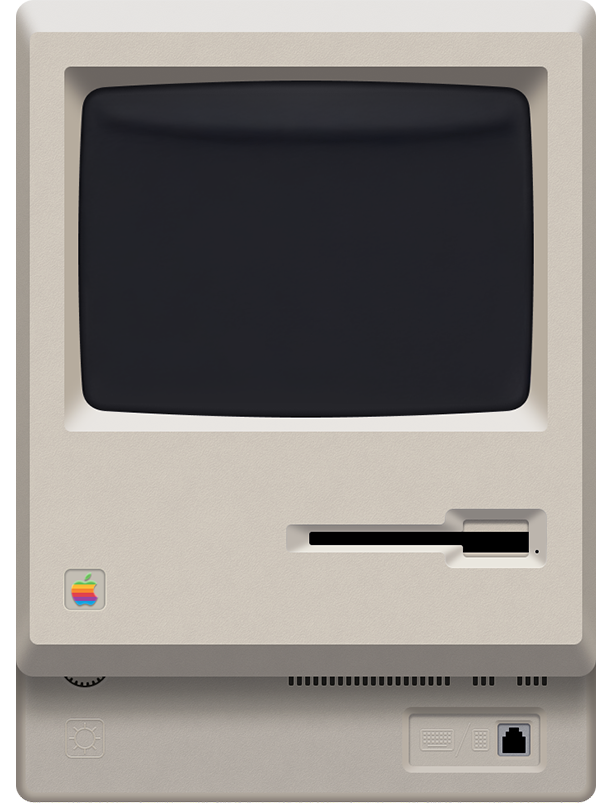
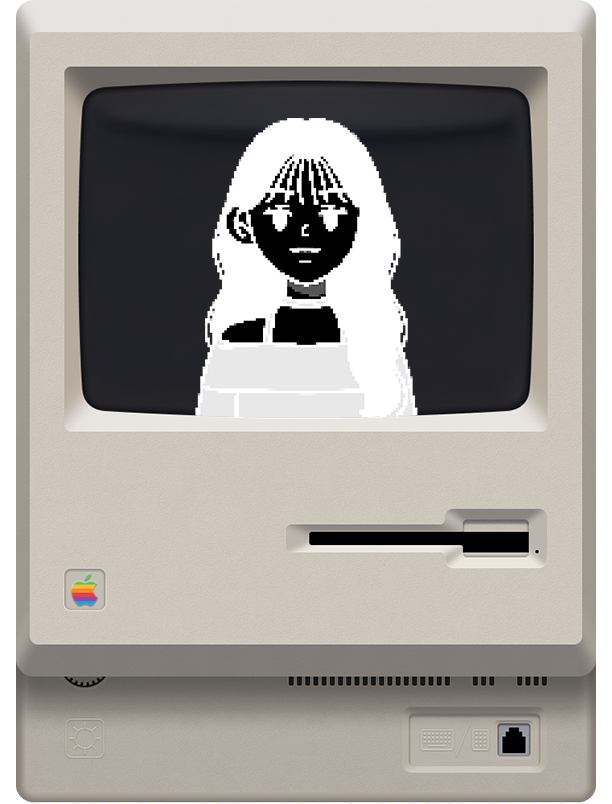
코드 수정

Changed region(s): [[0.3105, 0.1244, 0.683, 0.5286]]

diff --git a/css/about.css b/css/about.css
@@ -16,16 +16,6 @@ body ,main {background-color: #111111;}
 .top_interface { position: relative; background-color: #F5F5F7;}
 .old_mac {position: relative; width: 100%; height: 100vh;}
 .old_mac .mac {width: 27%; margin: 0 auto; display: block; position: absolute; top: 50%; left: 50%; transform: translate(-50%, -50%);}
-.typing {width: 100%; min-height: 100vh; display: flex; flex-direction: column; justify-content: center; align-items: center; overflow: hidden; color: #fff; position: absolute; top: -15%;}
-#typing-text { font-size: 1rem; font-weight: bold; white-space: nowrap; overflow: hidden; border-right: 2px solid #777777; width: 36ch; animation: typing 2s steps(20) forwards, blink 0.6s infinite;}
-@keyframes typing {
-  from { width: 0; }
-  to { width: 36ch; }
-}
-@keyframes blink {
-  50% { border-color: transparent; }
-}
-
 .back_font {position: absolute; top: 5%; z-index: -1; left: 50%; transform: translateX(-50%);}
 .back_font .font{}
 
@@ -35,35 +25,6 @@ body ,main {background-color: #111111;}
 .juhee_main .rt_bubble, .juhee_main .lt_bubble {background-color: var(--blue); border-radius: 20px; padding: 10px 20px; color: #fff; display: inline-block; position: absolute; font-size: 1.2rem;}
 .juhee_main .rt_bubble {top: 15%; right: -100%; width: 27ch;}
 .juhee_main .lt_bubble {top: 55%; left: -80%; width: 18ch;}
-
-
-
-/* .about_profile {}
-
-.about_profile {padding: 150px 0 100px;}
-.about_profile .profile_txt{text-align: center;}
-.about_profile .profile_txt h1{font-size: 2.5rem;}
-.about_profile .profile_txt h2{font-size: 1rem; margin-top: 20px; font-family: var(--kr-font);}
-
-.about_profile .profile_img {display: flex; gap: 20px; justify-content: center; margin: 50px 0 100px;} 
-.about_profile .profile_img li{ background-color: #F5F5F7; width: 300px; height: 400px; border-radius: 20px; overflow: hidden;}
-.about_profile .profile_img li img {object-fit: cover; height: 100%; transition: 0.3s;}
-
-.about_profile .profile_info { display: flex; justify-content: space-between; gap: 3%; padding: 0 2%;}
-.about_profile .profile_info ul{width: 22%;}
-.about_profile .profile_info ul li{}
-.about_profile .profile_info ul li h2{font-size: 2rem; border-bottom: 1px solid #111111; margin-bottom: 30px; width: auto; line-height: 2;}
-.about_profile .profile_info ul li h3{font-family: var(--kr-font); line-height: 2; color: #777777;}
-.about_profile .profile_info ul li h3 strong{font-weight: bold; margin-right: 10px; color: var(--bk-font);}
-
-.about_profile .profile_info .skill {display: flex; flex-direction: column; }
-
-.about_profile .profile_info .skill .skill_box {display: flex; flex-wrap: wrap; width: 100%; gap: 10px; text-align: center;}
-
-.about_profile .profile_info .skill .skill_box li {display: flex; flex-direction: column; align-items: center; width: 17%;}
-.about_profile .profile_info .skill li .skill_img {width: 50px; height: 50px; background-color: #111111; display: flex; justify-content: center; align-items: center; border-radius: 10px;}
-.about_profile .profile_info .skill li .skill_img img{width: 30px; height: 30px; object-fit: contain; filter: brightness(2);}
-.about_profile .profile_info .skill h3 {font-size: 0.7rem; margin-top: 10px;} */
 
 .about_profile {padding: 150px 0;}
 .about_profile .profile_title {text-align: center;}
@@ -98,25 +59,43 @@ body ,main {background-color: #111111;}
 .sidebar .swiper-slide { text-align: center; font-size: 18px; display: flex; justify-content: center; align-items: center; cursor: pointer; flex-direction: column;}
 .sidebar .swiper-slide img {width: 50px; margin-bottom: 10px;}
 
-.content { display: none; background-color: #F5F5F7; width: 100%; margin-top: 60px; border-radius: 20px; padding: 20px; min-height: 700px; font-family: var(--en-font);}
+.content { display: none; background-color: #F5F5F7; width: 100%; margin-top: 60px; border-radius: 20px; padding: 20px; min-height: 700px; font-family: var(--retro-font);}
 #hobby-content { display: block; /* Default content */}
 .content p { font-size: 1.2em; }
 .content ul { margin-top: 20px; list-style-type: none;padding: 0;}
 .content ul li { margin-bottom: 10px;}
 
-.hobby_section {text-align: center; font-family: var(--retro-font); padding: 100px 0;}
+.hobby_section {text-align: center; padding: 100px 0;}
 .hobby_section .hobby_title{}
 .hobby_section .hobby_title h1{font-size: 3rem;}
-.hobby_section .hobby_title h2{margin-top: 20px;}
+.hobby_section .hobby_title h2{margin-top: 30px;}
 .hobby_section .hobby_icon {display: flex; flex-wrap: wrap; gap: 50px; justify-content: center; width: 60%; margin: 0 auto;}
 .hobby_section .hobby_icon li{display: flex; flex-direction: column; align-items: center; justify-content: center; margin: 80px 0; width: 20%;}
 .hobby_section .hobby_icon li img{height: 120px; object-fit: contain;}
 .hobby_section .hobby_icon li h3{ margin-top: 20px;}
 .hobby_section h4{ width: 65%; margin: 0 auto; line-height: 1.8;}
 
+.personality_section {}
+.keyword_box {position: relative; width: 60%; margin: 0 auto;}
+.keyword_box .pixel_img{width: 50%; margin: 0 auto;}
+.keyword_box .pixel_img img{}
+.keyword_box .personality_keyword{}
+.keyword_box .personality_keyword h3{position: absolute; font-size: 1rem;}
+.keyword01{top: 18%; left: 26%;}
+.keyword02{top: 28%; left: 17%;}
+.keyword03{top: 50%; left: 23%;}
+.keyword04{top: 78%; left: 18%;}
+.keyword05{top: 63%; left: 6%;}
+.keyword06{top: 27%; right: 6%;}
+.keyword07{top: 24%; right: 31%;}
+.keyword08{top: 48%; right: 20%;}
+.keyword09{top: 81%; right: 31%;}
+.keyword10 {top: 61%; right: 9%;}
+.personality_section h4 {width: 70%; margin: 0 auto; line-height: 1.7; border: 3px solid #111111; border-radius: 20px; padding: 50px; margin-bottom: 60px;}
+
 .skill_box {display: flex; flex-wrap: wrap; justify-content: center; padding: 2% 3% 3%;}
-.skill_box .skill_info{width: 47%; background-color: #fff; border-radius: 20px; padding: 40px; margin: 20px; }
-.skill_box .skill_info h2{color: var(--blue); text-align: center; font-size: 1.5rem; font-weight: bold; border-bottom: #a7a7a7 1px solid; margin-bottom: 30px; padding-bottom: 15px;}
+.skill_box .skill_info{width: 47%; border-radius: 20px; padding: 40px; margin: 20px; border: 3px solid #111111;}
+.skill_box .skill_info h2{text-align: center; font-size: 1.5rem; font-weight: bold; border-bottom: #a7a7a7 1px solid; margin-bottom: 30px; padding-bottom: 15px;}
 .skill_box .skill_info h3{font-size: 1rem; line-height: 1.5;}
 
 
@@ -131,17 +110,9 @@ body ,main {background-color: #111111;}
   .old_mac {height:800px;}
   .old_mac .mac {width: 40%; padding-top: 150px;}
   .back_font {width: 80%; top: 12%;}
-  #typing-text {font-size: 0.8rem;}
-  .typing {top: -39%;}
 
   .about_profile .profile_title h1 {font-size: 2rem;}
 
-
-  /* .about_profile {padding-bottom: 0;}
-  .about_profile .profile_img {margin-bottom: 50px;}
-
-  .about_profile .profile_info { padding: 0; flex-wrap: wrap;}
-  .about_profile .profile_info ul {width: 46%; margin-bottom: 50px;} */
   .about_profile {padding: 100px 0;}
   .profile_box {flex-direction: column;}
   .profile_box .main_profile {width: 60%; margin: 0 auto;}
@@ -153,6 +124,11 @@ body ,main {background-color: #111111;}
   .container {padding: 100px 0;}
 
   .hobby_section .hobby_icon {width: 90%;}
+
+  .keyword_box {width: 80%;}
+  .personality_section h4 {width: 80%;}
+
+  .skill_box .skill_info {width: 75%;}
   }
   
 
@@ -161,19 +137,7 @@ body ,main {background-color: #111111;}
   .old_mac .mac {width: 75%;}
   .old_mac {height: 600px;}
   .back_font {width: 80%;}
-  .typing {top: -32%;}
-  #typing-text {font-size: 10px;}
-
-  /* .about_profile {padding: 50px 0 0;}
-  .about_profile .profile_img {margin-bottom: 50px;}
-  .about_profile .profile_txt h1 {font-size: 1.5rem;}
-  .about_profile .profile_txt h2 {font-size: 0.8rem;}
-
-  .about_profile .profile_info { padding: 0; flex-wrap: wrap; gap: 0;}
-  .about_profile .profile_info ul {width: 100%; margin-bottom: 50px;}
-  .about_profile .profile_info ul:last-child {margin-bottom: 20px;}
-  .about_profile .profile_info ul li h2 {font-size: 1.2rem;}
-  .about_profile .profile_info ul li h3 {font-size: 0.8rem;} */
+  
   .about_profile {padding: 80px 0;}
   .about_profile .profile_title h2 {font-size: 0.9rem;}
   .about_profile .profile_title h1 {font-size: 1.2rem;}
@@ -198,6 +162,15 @@ body ,main {background-color: #111111;}
   .hobby_section .hobby_icon li {width: 30%; margin: 10px 0;}
   .hobby_section .hobby_icon li img{height: 100px;}
   .hobby_section h4 {width: 90%; font-size: 0.8rem; margin-top: 30px;}
+
+  .keyword_box {width: 95%;}
+  .keyword_box .pixel_img {width: 100%;}
+  .personality_keyword {display: none;}
+  .personality_section h4 {width: 90%; padding: 20px; font-size: 0.9rem;}
+
+  .skill_box .skill_info {width: 100%; padding: 10px; margin: 30px 0;}
+  .skill_box .skill_info h2 {font-size: 1.2rem; margin-bottom: 20px;}
+  .skill_box .skill_info h3 {font-size: 0.8rem;}
   
   .sidebar { width: 100%;}
   .sidebar .swiper-wrapper {justify-content: start;}

diff --git a/about.html b/about.html
@@ -61,31 +61,21 @@
         <div class="old_mac up_img">
           <img class="mac" src="./asset/image/machintosh.png" alt="Macintosh">
 
-          <div class="typing">
-            <div id="typing-text">"Hey Juhee, tell me about yourself"</div>
-          </div>
-
           <div class="back_font">
             <img class="font" src="./asset/image/about_me_font.png" alt="">
           </div>
         </div>
-
-        <!-- <div class="juhee_main">
-          <img src="./asset/image/main_juhee_test02.png" alt="" class="up_img">
-          <h3 class="up_img rt_bubble">Sure, let me explain that to you</h3>
-          <h3 class="up_img lt_bubble">Scroll down, please</h3>
-        </div> -->
       </div>
 
       <!-- 프로필 -->
       <div class="about_profile">
-        <div class="profile_title">
+        <div class="profile_title fade_up">
           <h2>성장하는 웹퍼블리셔 임주희입니다.</h2>
           <h1>Always growing, always publishing.</h1>
         </div>
 
         <div class="profile_box">
-          <img class="main_profile" src="./asset/image/profile_main.jpg" alt="">
+          <img class="main_profile fade_up" src="./asset/image/profile_main.jpg" alt="">
 
           <div class="profile_txt">
             <ul class="fade_up">
@@ -259,11 +249,26 @@
               <h4>창의적인 영감을 얻을 수 있는 취미 활동을 즐깁니다. 단순히 혼자만의 즐거움에 그치지 않고, 개인 블로그에 영화 감상문을 포스팅하거나 직접 제작한 스티커를 무료로 배포하며 취미의 범위를 넓혀가고 있습니다. 이러한 경험은 웹 퍼블리셔로서 성장하는 데 중요한 발판이 되고 있습니다.</h4>
             </div>
 
-            <div id="personality-content" class="content">
-              <h1>Personality</h1>
-              <div class="contents_info">
-                
+            <div id="personality-content" class="content personality_section">
+              <div class="keyword_box">
+                <div class="pixel_img">
+                  <img src="./asset/image/personality_img.png" alt="">
+                </div>
+                <div class="personality_keyword">
+                  <h3 class="keyword01">성실함</h3>
+                  <h3 class="keyword02">소통 능력</h3>
+                  <h3 class="keyword03">책임감</h3>
+                  <h3 class="keyword04">계획적</h3>
+                  <h3 class="keyword05">꼼꼼함</h3>
+                  <h3 class="keyword06">웅통성</h3>
+                  <h3 class="keyword07">세심함</h3>
+                  <h3 class="keyword08">시간 관리</h3>
+                  <h3 class="keyword09">배려심</h3>
+                  <h3 class="keyword10">창의력</h3>
+                </div>
               </div>
+
+              <h4>제 성격은 꼼꼼하고 성실하며, 주어진 업무를 끝까지 책임지는 스타일입니다. 작은 디테일까지 신경 쓰며 완성도를 높이는 것을 중요하게 생각하고, 빠른 작업 속도와 효율적인 코드 작성으로 보다 깔끔하고 유지보수하기 쉬운 결과물을 만들어냅니다. 또한, 디자이너와 개발자의 의도를 이해하고 조율하는 과정에서 원활한 소통을 중시하며, 더 나은 사용자 경험을 제공하기 위해 끊임없이 고민하고 배우며 성장하고자 합니다.</h4>
             </div>
 
             <div id="like-content" class="content">
@@ -285,7 +290,7 @@
 
                 <ul class="skill_info">
                   <li><h2>JavaScript & jQuery</h2></li>
-                  <li><h3>- H자바스크립트 ES6+ 문법 이해</h3></li>
+                  <li><h3>- 자바스크립트 ES6+ 문법 이해</h3></li>
                   <li><h3>- HTML / CSS를 를 활용한 웹사이트 구축 및 디자인</h3></li>
                   <li><h3>- scroll, mouse 이벤트 제어</h3></li>
                   <li><h3>- JavaScript와 jQuery를 통한 기능 수정 및 페이지 인터랙션 적용</h3></li>
@@ -308,13 +313,6 @@
                 </ul>
               </div>
             </div>
-
-            <!-- <div id="mbti-content" class="content">
-              <h1>MBTI</h1>
-              <div class="contents_info">
-                
-              </div>
-            </div> -->
 
             <div id="qa-content" class="content">
               <h1>Q&A</h1>

diff --git a/js/about.js b/js/about.js
@@ -74,22 +74,38 @@ document.addEventListener('DOMContentLoaded', function () {
     });
   });
 */
-  
 
+//personality 마우스 이벤트
+const img1 = document.querySelector('.keyword01');
+const img2 = document.querySelector('.keyword02');
+const img3 = document.querySelector('.keyword03');
+const img4 = document.querySelector('.keyword04');
+const img5 = document.querySelector('.keyword05');
+const img6 = document.querySelector('.keyword06');
+const img7 = document.querySelector('.keyword07');
+const img8 = document.querySelector('.keyword08');
+const img9 = document.querySelector('.keyword09');
+const img10 = document.querySelector('.keyword10');
 
-//상품 스와이퍼
-var hobby_swiper = new Swiper(".hobbySwiper", {
-    slidesPerView: 2.5,
-    spaceBetween: 10,
-    slideToClickedSlide : true,
-    navigation:{
-        nextEl:".swiper-button-next",
-        prevEl:".swiper-button-prev",
-    },
-    breakpoints: {
-      768: {
-        slidesPerView: 4.5,
-        spaceBetween: 20.
-      }
-  }
+function updatePosition(x, y) {
+    img1.style.transform = `translate(${x / 60}px, ${-y / 50}px)`;
+    img2.style.transform = `translate(${x / -50}px, ${-y / 100 + 10}px)`;
+    img3.style.transform = `translate(${30 - x / 70}px, ${y / 60}px)`;
+    img4.style.transform = `translate(${50 - x / 90}px, ${-y / 30}px)`;
+    img5.style.transform = `translate(${x / 40}px, ${y / -80}px)`;
+    img6.style.transform = `translate(${x / -60}px, ${y / 40}px)`;
+    img7.style.transform = `translate(${x / 70}px, ${-y / 90}px)`;
+    img8.style.transform = `translate(${x / -80}px, ${y / 30}px)`;
+    img9.style.transform = `translate(${x / 50}px, ${y / -70}px)`;
+    img10.style.transform = `translate(${x / -90}px, ${y / 20}px)`;
+}
+
+addEventListener('mousemove', (evt) => {
+  updatePosition(evt.clientX, evt.clientY);
+});
+
+// 모바일 터치 대응
+addEventListener('touchmove', (evt) => {
+  let touch = evt.touches[0]; // 첫 번째 터치 포인트 가져오기
+  updatePosition(touch.clientX, touch.clientY);
 });

diff --git a/css/home.css b/css/home.css
@@ -37,10 +37,10 @@
 
 /* 메인 표지 */
 .top_interface {width: 100%; height: 100vh; position: relative;}
-.top_interface .main_txt {margin-top: 15%;}
+.top_interface .main_txt {padding-top: 15%;}
 .top_interface .main_txt h1 {text-align: center; font-size: 6rem; font-weight: bold; line-height: 1.3;}
 
-.juhee_main {width: 30%; margin: 0 auto; position: absolute; top: 20%; left: 50%; transform: translate(-50%, -50%);}
+.juhee_main {width: 40%; margin: 0 auto; position: absolute; top: 50%; left: 50%; transform: translate(-50%, -50%);}
 
 /* 어바웃 */
 .about { width: 100%;}

diff --git a/index.html b/index.html
@@ -83,7 +83,7 @@
         </div>
 
         <div class="juhee_main">
-          <!-- <img src="./asset/image/main_juhee_test.png" alt=""> -->
+          <img class="up_img" src="./asset/image/main_juhee.png" alt="">
         </div>
       </div>
 
